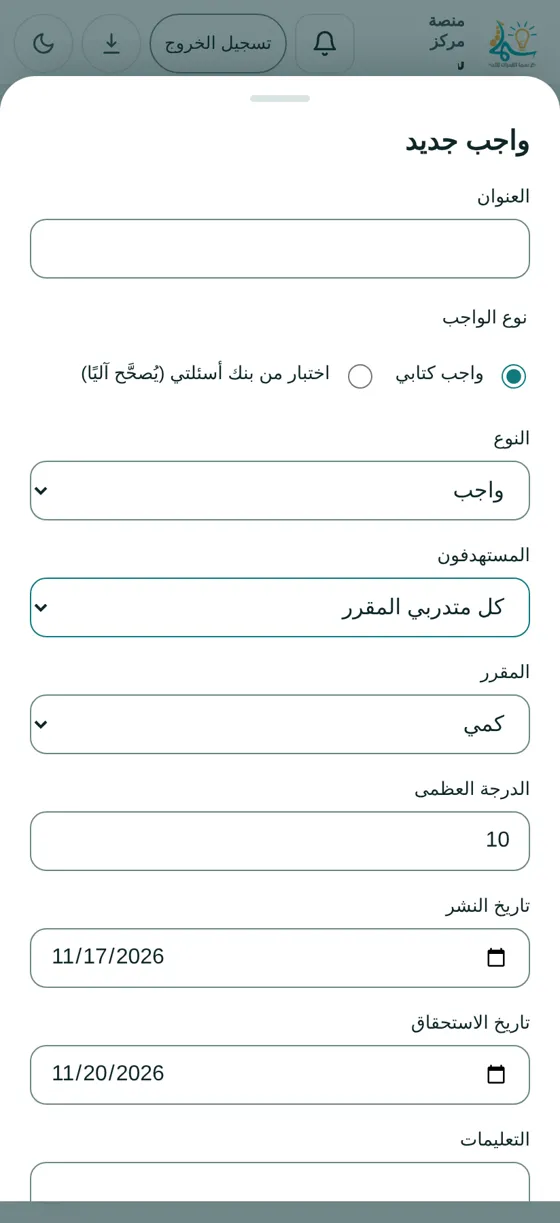
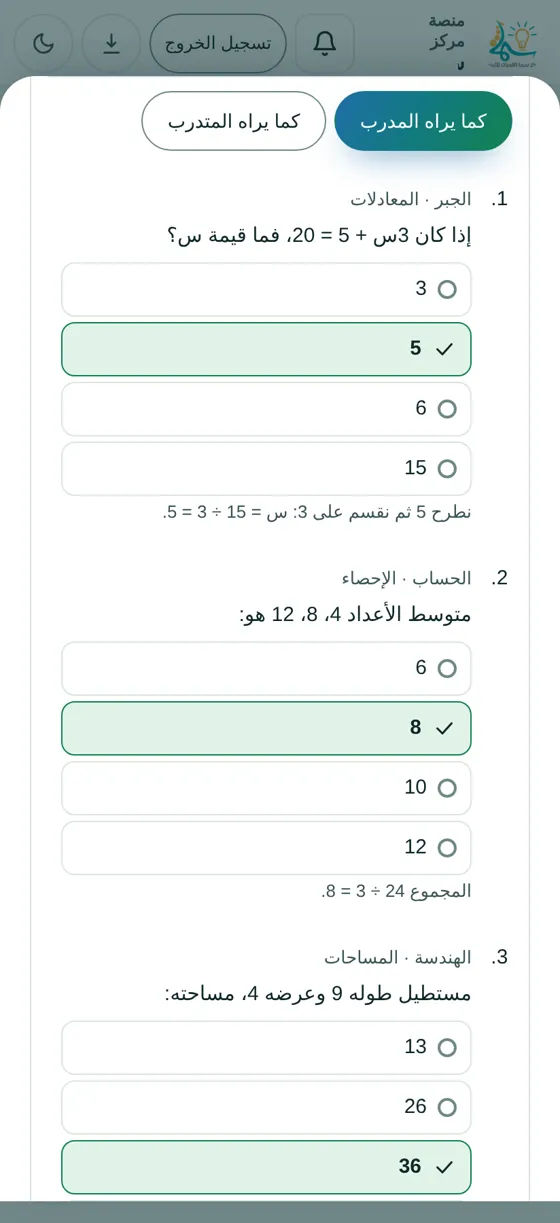
الخطوة AV: أدوات المدرب — اختبار من أكثر من قسم، معاينة، إرسال فردي وجماعي، وتغذية راجعة
- بنّاء الاختبار: أقسام متعددة، عدد مفتوح 1–100 بسحب موزّع أو انتقاء، ترتيب وحذف
- معاينة كما يراه المدرب وكما يراه المتدرب قبل النشر
- بحث بالاسم وتحديد الظاهرين للمستهدفين
- مراجعة إجابات المتدرب بعد التسليم بملاحظة لكل سؤال وملاحظة عامة (teacher_comment)

Claude-Session: https://claude.ai/code/session_012j61WKYZfV81i5FMwMRcDZ

diff --git a/src/learning_views.js b/src/learning_views.js
@@ -2,7 +2,7 @@
    واجهات الجانب التعليمي داخل البوابات: الواجبات، وقياس المستوى وبنك الأسئلة،
    والمراسلة، وتقييم المدرب بالنجوم.
    ===================================================================== */
-import { $, $$, esc, fmtNum, fmtShort, riyadhNow, addDays } from './utils.js';
+import { $, $$, esc, fmtNum, fmtShort, riyadhNow, addDays, matchQ } from './utils.js';
 import { ic, emptyBox, toast } from './views2_head.js';
 import { Store } from './data2.js';
 import { modal, closeModal } from './views2_programs.js';
@@ -65,7 +65,12 @@ export function qStem(q, thumb){
   const src = q.image ? assetUrl(q.image, ASSETS) : '', pg = q.page_image ? assetUrl(q.page_image, ASSETS) : '';
   return q.image ? `<span class="qimg ${thumb ? 'th' : ''}">${src ? `<img src="${esc(src)}" alt="سؤال مصوَّر ${esc(q.code || '')}" loading="lazy">` : `<span class="hint">صورة السؤال ${esc(q.code || '')} غير متاحة (لم يُضبط مسار تخزين صور البنك)</span>`}${!thumb && pg ? `<a class="linkbtn" href="${esc(pg)}" target="_blank" rel="noopener">عرض صفحة القطعة</a>` : ''}</span>${q.text ? `<p>${esc(q.text)}</p>` : ''}` : `<p>${esc(q.text)}</p>`;
 }
-function quizHtml(a){
+/* ملاحظات المدرب بعد التسليم: العامة، ولكل سؤال برقمه */
+const fbHtml = (a, sb) => { if(!sb || (!sb.teacher_note && !sb.comments)) return ''; const idx = Object.fromEntries((a.quiz || []).map((q, i) => [q.id, i + 1]));
+  return `<div class="alert t-info fb-box" style="margin:8px 0 0"><span class="aic">${ic('chat')}</span><div style="flex:1"><b>ملاحظات المدرب</b>${sb.teacher_note ? `<p style="margin:4px 0">${esc(sb.teacher_note)}</p>` : ''}
+    ${Object.entries(sb.comments || {}).sort((x, y) => (idx[x[0]] || 999) - (idx[y[0]] || 999)).map(([id, t]) => `<p class="fb-q">${idx[id] ? `السؤال ${fmtNum(idx[id])}: ` : ''}${esc(t)}</p>`).join('')}</div></div>`; };
+function quizHtml(a){ const fb = fbHtml(a, a.submission); return fb + quizCore(a); }
+function quizCore(a){
   const sb = a.submission, done = sb?.status === 'graded' && sb.review;
   const left = attemptsLeft(a, sb);
   if(left) return `<div class="alert t-info" style="margin:8px 0 0"><span class="aic">${ic('check')}</span><div style="flex:1"><span>سُلّم الاختبار: ${esc(sb.feedback || '')} · درجتك ${fmtNum(sb.score ?? 0)} من ${fmtNum(a.max_score)}.</span>
@@ -163,7 +168,7 @@ export function teacherHomework(D, reload){ setBankAssets(D.bank_assets);
       return `<details class="hw" ${a.due_date >= riyadhNow().date ? 'open' : ''}><summary><b>${esc(a.title)}</b> ${a.type && a.type !== 'homework' ? `<span class="pill ${a.type === 'exam' ? 'warn' : 'g'}">${HW_TYPES[a.type]}</span> ` : ''}${a.kind === 'quiz' ? `<span class="pill info">اختبار · ${fmtNum(a.quiz?.length || 0)} أسئلة${attemptsOf(a) > 1 ? ` · ${fmtNum(attemptsOf(a))} محاولات` : ''}</span> ` : ''}${Array.isArray(a.targets) ? `<span class="pill g">${esc(a.target_label || '')}</span> ` : ''}<span class="hint">${esc(a.subject)} · يُستحق ${fmtShort(a.due_date)} · سلّم ${fmtNum(done.length)} من ${fmtNum(Array.isArray(a.targets) ? a.targets.length : students)}</span></summary>
         ${subs.length ? `<div class="tblwrap"><table class="tb"><thead><tr><th>المتدرب</th><th>الحالة</th><th>الإجابة</th><th>التصحيح</th></tr></thead><tbody>${subs.map(s => `<tr><td>${esc(D.trainees.find(t => t.id === s.trainee_id)?.full_name || '')}</td>
           <td><span class="pill dot ${STATE_TONE[s.status]}">${SUB_TXT[s.status]}</span>${s.late ? ' <span class="hint">متأخر</span>' : ''}</td><td style="max-width:320px">${a.kind === 'quiz' ? esc(s.feedback || '') : esc(s.answer || '')}</td>
-          <td>${a.kind === 'quiz' ? `<b class="num">${fmtNum(s.score ?? 0)} / ${fmtNum(a.max_score)}</b> <span class="hint">آلي</span>` : ['submitted', 'needs_revision', 'graded'].includes(s.status) ? `<button class="btn sm" data-gr="${s.id}">${ic('edit')} ${s.status === 'graded' ? fmtNum(s.score ?? 0) + '/' + fmtNum(a.max_score) : 'تصحيح'}</button>` : '—'}</td></tr>`).join('')}</tbody></table></div>` : '<p class="hint">لا تسليمات بعد.</p>'}</details>`; }).join('') : emptyBox('لم تنشر واجبات بعد')}</div>`,
+          <td>${a.kind === 'quiz' ? `<b class="num">${fmtNum(s.score ?? 0)} / ${fmtNum(a.max_score)}</b> <span class="hint">آلي</span>${s.status !== 'draft' ? ` <button class="btn sm" data-fb="${s.id}">${ic('chat')} ${s.teacher_note || s.comments ? 'ملاحظاتك' : 'مراجعة وتغذية راجعة'}</button>` : ''}` : ['submitted', 'needs_revision', 'graded'].includes(s.status) ? `<button class="btn sm" data-gr="${s.id}">${ic('edit')} ${s.status === 'graded' ? fmtNum(s.score ?? 0) + '/' + fmtNum(a.max_score) : 'تصحيح'}</button>` : '—'}</td></tr>`).join('')}</tbody></table></div>` : '<p class="hint">لا تسليمات بعد.</p>'}</details>`; }).join('') : emptyBox('لم تنشر واجبات بعد')}</div>`,
   bind(){ if(HW_PRESET) queueMicrotask(() => $('#hwAdd')?.click());
     $('#hwAdd').onclick = () => { const n = riyadhNow();
       modal(`<h3>واجب جديد</h3><form id="hf" class="grid g2" novalidate>
@@ -172,15 +177,21 @@ export function teacherHomework(D, reload){ setBankAssets(D.bank_assets);
           <label class="chk"><input type="radio" name="kind" value="text" checked> واجب كتابي</label><label class="chk"><input type="radio" name="kind" value="quiz"> اختبار من بنك أسئلتي (يُصحَّح آليًا)</label></div></fieldset>
         <div class="field"><label for="hf-ty">النوع</label><select class="inp" id="hf-ty" name="type">${Object.entries(HW_TYPES).map(([k, v]) => `<option value="${k}">${v}</option>`).join('')}</select></div>
         <div class="field"><label for="hf-tg">المستهدفون</label><select class="inp" id="hf-tg"><option value="all">كل متدربي المقرر</option><option value="plan">باقة معينة</option>${(D.groups || []).length ? '<option value="group">مجموعة محفوظة</option>' : ''}<option value="pick">أفراد بعينهم</option></select></div>
-        <div data-tgp hidden style="grid-column:1/-1"><div class="field" id="hfTgPlanF" hidden><label for="hf-tp">الباقة</label><select class="inp" id="hf-tp"></select></div><div class="field" id="hfTgGrpF" hidden><label for="hf-gp">المجموعة</label><select class="inp" id="hf-gp">${(D.groups || []).map(g => `<option value="${g.id}">${esc(g.name)} (${fmtNum(g.trainee_ids.length)})</option>`).join('')}</select></div><div class="qpick" id="hfTgList" hidden></div><p class="hint" id="hfTgN" style="margin:6px 0 0"></p></div>
+        <div data-tgp hidden style="grid-column:1/-1"><div class="field" id="hfTgPlanF" hidden><label for="hf-tp">الباقة</label><select class="inp" id="hf-tp"></select></div><div class="field" id="hfTgGrpF" hidden><label for="hf-gp">المجموعة</label><select class="inp" id="hf-gp">${(D.groups || []).map(g => `<option value="${g.id}">${esc(g.name)} (${fmtNum(g.trainee_ids.length)})</option>`).join('')}</select></div><div class="qb-row" id="hfTgTools" hidden><div class="field" style="margin:0"><label for="hfTgQ">بحث بالاسم</label><input class="inp" id="hfTgQ" type="search"></div><button type="button" class="btn sm" id="hfTgAll">تحديد الظاهرين</button><button type="button" class="btn sm" id="hfTgNone">إلغاء التحديد</button></div><div class="qpick" id="hfTgList" hidden></div><p class="hint" id="hfTgN" style="margin:6px 0 0"></p></div>
         <div class="field" data-qk hidden><label for="hf-rv">إظهار الإجابات الصحيحة للمتدرب</label><select class="inp" id="hf-rv" name="reveal">${Object.entries(REVEAL).map(([k, v]) => `<option value="${k}">${v}</option>`).join('')}</select></div>
         <div class="field" data-qk hidden><label for="hf-at">عدد المحاولات المسموحة</label><select class="inp" id="hf-at" name="max_attempts">${Array.from({ length:MAX_ATTEMPTS }, (_, i) => `<option value="${i + 1}">${i === 0 ? 'محاولة واحدة' : i === 1 ? 'محاولتان' : fmtNum(i + 1) + ' محاولات'}</option>`).join('')}</select></div>
-        <div class="field" data-qk hidden><label for="hf-u">الوحدة أو النموذج</label><select class="inp" id="hf-u" name="unit"></select></div>
-        <div class="field" data-qk hidden><label for="hf-m">طريقة اختيار الأسئلة</label><select class="inp" id="hf-m"><option value="rand">عشوائي بعدد محدد</option><option value="pick">أنتقي الأسئلة بنفسي</option></select></div>
-        <div data-qpk hidden style="grid-column:1/-1"><div class="field"><label for="hf-k">القسم داخل الوحدة</label><select class="inp" id="hf-k"></select></div><div class="qpick" id="hfPick"></div><p class="hint" id="hfPn" style="margin:6px 0 0"></p></div>
-        <div class="field" data-qk hidden><label for="hf-n">عدد الأسئلة</label><select class="inp" id="hf-n" name="count">${[5, 10, 15, 20, 30].map(n => `<option ${n === 10 ? 'selected' : ''}>${n}</option>`).join('')}</select></div>
+        <div class="qb" data-qk hidden style="grid-column:1/-1">
+          <fieldset class="field" style="border:0;padding:0;margin:0"><legend style="font-weight:500;font-size:13.5px;margin-bottom:6px">الأقسام والنماذج (اختر قسمًا أو أكثر ليكون الاختبار شاملًا)</legend><div class="qb-units" id="hfUnits"></div></fieldset>
+          <div class="qb-row"><div class="field" style="margin:0"><label for="hf-n">عدد الأسئلة</label><input class="inp num" id="hf-n" name="count" type="number" min="1" max="100" value="10" inputmode="numeric"></div>
+            <button type="button" class="btn" id="hfDraw">${ic('refresh')} سحب عشوائي من الأقسام المحددة</button></div>
+          <details class="qb-man"><summary>أو انتقِ الأسئلة بنفسك</summary>
+            <div class="qb-row"><div class="field" style="margin:0"><label for="hf-k">المهارة داخل الأقسام</label><select class="inp" id="hf-k"></select></div><div class="field" style="margin:0"><label for="hf-q">بحث</label><input class="inp" id="hf-q" type="search" placeholder="رمز السؤال أو نصه"></div></div>
+            <div class="qpick" id="hfPick"></div></details>
+          <div class="qb-sel"><div class="qb-head"><b id="hfPn">لم تُختر أسئلة بعد</b><span style="flex:1"></span><button type="button" class="btn sm" id="hfClr">${ic('x')} تفريغ</button><button type="button" class="btn sm pri" id="hfPv">${ic('eye')} معاينة</button></div><ol class="qb-list" id="hfSel"></ol></div>
+          <div class="qb-prev" id="hfPrev" hidden><div class="seg" role="tablist"><button type="button" role="tab" class="on" data-pv="t" aria-selected="true">كما يراه المدرب</button><button type="button" role="tab" data-pv="s" aria-selected="false">كما يراه المتدرب</button></div><div id="hfPrevB"></div></div>
+          <p class="hint" style="margin:0">إن لم تختر أسئلة يُسحب العدد المحدد عشوائيًا عند النشر. الحد 100 سؤال.</p></div>
         <div class="field"><label for="hf-s">المقرر</label><select class="inp" id="hf-s" name="subject">${me.subjects.map(s => `<option>${s}</option>`).join('')}</select></div>
-        <div class="field"><label for="hf-m">الدرجة العظمى</label><input class="inp num" id="hf-m" name="max_score" type="number" min="1" value="10"></div>
+        <div class="field"><label for="hf-ms">الدرجة العظمى</label><input class="inp num" id="hf-ms" name="max_score" type="number" min="1" value="10"></div>
         <div class="field"><label for="hf-p">تاريخ النشر</label><input class="inp" type="date" id="hf-p" name="publish_date" value="${n.date}"></div>
         <div class="field"><label for="hf-d">تاريخ الاستحقاق</label><input class="inp" type="date" id="hf-d" name="due_date" value="${addDays(n.date, 3)}"></div>
         <div class="field" style="grid-column:1/-1"><label for="hf-b">التعليمات</label><textarea class="inp" id="hf-b" name="body" rows="4" style="padding:10px 14px;line-height:1.8"></textarea></div>
@@ -188,34 +199,72 @@ export function teacherHomework(D, reload){ setBankAssets(D.bank_assets);
         <div class="errtxt" id="hfE" style="grid-column:1/-1"></div>
         <div style="grid-column:1/-1;display:flex;gap:8px;justify-content:flex-end"><button type="button" class="btn" id="hfC">إلغاء</button><button class="btn pri" id="hfS">${ic('check')} نشر</button></div></form>`);
       $('#hfC').onclick = closeModal;
-      const pub = (D.questions || []).filter(q => q.status === 'published'), units = () => { const sub = $('#hf-s').value, us = {};
-          pub.filter(q => q.subject === sub).forEach(q => us[q.unit] = (us[q.unit] || 0) + 1);
-          $('#hf-u').innerHTML = `<option value="">كل الوحدات (${fmtNum(pub.filter(q => q.subject === sub).length)})</option>` + Object.entries(us).map(([u, n]) => `<option value="${esc(u)}">${esc(u)} (${fmtNum(n)})</option>`).join(''); };
+      const pub = (D.questions || []).filter(q => q.status === 'published');
       /* المستهدفون: قائمة ثابتة وقت الإرسال (باقة أو أفراد)، من متدربي القسم والمقرر باشتراك قائم */
       const tgPicked = new Set(), eligible = () => { const sub = $('#hf-s').value; return (D.trainees || []).map(t => ({ t, subs:(D.subscriptions || []).filter(s => s.trainee_id === t.id && (s.subjects || []).includes(sub) && ['pending', 'active'].includes(subStatus(s))) })).filter(x => x.subs.length); };
       const tgIds = () => { const m = $('#hf-tg').value; const gp = m === 'group' ? (D.groups || []).find(g => g.id === $('#hf-gp').value) : null; return m === 'all' ? null : m === 'group' ? eligible().filter(x => gp?.trainee_ids.includes(x.t.id)).map(x => x.t.id) : m === 'plan' ? eligible().filter(x => x.subs.some(s => s.plan_id === $('#hf-tp').value)).map(x => x.t.id) : eligible().filter(x => tgPicked.has(x.t.id)).map(x => x.t.id); };
-      const tgDraw = () => { const m = $('#hf-tg').value, el = eligible(); $('[data-tgp]').hidden = m === 'all'; $('#hfTgPlanF').hidden = m !== 'plan'; $('#hfTgGrpF').hidden = m !== 'group'; $('#hfTgList').hidden = m !== 'pick';
+      const tgDraw = () => { const m = $('#hf-tg').value, el = eligible(); $('[data-tgp]').hidden = m === 'all'; $('#hfTgPlanF').hidden = m !== 'plan'; $('#hfTgGrpF').hidden = m !== 'group'; $('#hfTgList').hidden = m !== 'pick'; $('#hfTgTools').hidden = m !== 'pick';
         if(m === 'plan'){ const ps = [...new Set(el.flatMap(x => x.subs.map(s => s.plan_id)))], cur = $('#hf-tp').value; $('#hf-tp').innerHTML = ps.map(id => { const p = (D.plans || []).find(y => y.id === id); return `<option value="${id}" ${id === cur ? 'selected' : ''}>${esc(p ? planName(p) : id)}</option>`; }).join(''); }
-        if(m === 'pick'){ $('#hfTgList').innerHTML = el.map(x => `<label class="qp"><input type="checkbox" value="${x.t.id}" ${tgPicked.has(x.t.id) ? 'checked' : ''}><span>${esc(x.t.full_name)}</span></label>`).join('') || '<p class="hint">لا متدربين في هذا المقرر.</p>';
+        if(m === 'pick'){ const tq = $('#hfTgQ').value; $('#hfTgList').innerHTML = el.filter(x => !tq.trim() || matchQ(tq, x.t.full_name)).map(x => `<label class="qp"><input type="checkbox" value="${x.t.id}" ${tgPicked.has(x.t.id) ? 'checked' : ''}><span>${esc(x.t.full_name)}</span></label>`).join('') || '<p class="hint">لا متدربين في هذا المقرر.</p>';
           $$('#hfTgList input').forEach(c => c.onchange = () => { c.checked ? tgPicked.add(c.value) : tgPicked.delete(c.value); tgN(); }); }
         tgN(); };
       const tgN = () => { const ids = tgIds(); $('#hfTgN').textContent = ids ? `سيُرسل إلى ${fmtNum(ids.length)} متدربًا، وتُثبَّت القائمة عند النشر.` : ''; };
+      let tgT; $('#hfTgQ').oninput = () => { clearTimeout(tgT); tgT = setTimeout(tgDraw, 200); };
+      $('#hfTgAll').onclick = () => { $$('#hfTgList input').forEach(c => tgPicked.add(c.value)); tgDraw(); }; $('#hfTgNone').onclick = () => { tgPicked.clear(); tgDraw(); };
       $('#hf-tg').onchange = tgDraw; $('#hf-tp').onchange = tgN; $('#hf-gp').onchange = tgN; $('#hf-s').addEventListener('change', tgDraw);
       if(HW_PRESET){ const P = HW_PRESET; HW_PRESET = null; $('#hf-t').value = P.title || ''; $('#hf-ty').value = 'practice'; $('#hf-tg').value = 'pick'; P.ids.forEach(id => tgPicked.add(id)); tgDraw(); }
-      const chosen = [], pickOn = () => !$('[data-qk]').hidden && $('#hf-m').value === 'pick';
-      const pool = () => pub.filter(q => q.subject === $('#hf-s').value && (!$('#hf-u').value || q.unit === $('#hf-u').value)).sort((a, b) => (a.order || 0) - (b.order || 0));
-      const drawPick = () => { const k = $('#hf-k').value, list = pool().filter(q => !k || (q.skill || '') === k).slice(0, 120);
-        $('#hfPick').innerHTML = list.length ? list.map(q => `<label class="qp"><input type="checkbox" value="${q.id}" ${chosen.includes(q.id) ? 'checked' : ''}><span>${q.code ? `<b dir="ltr">${esc(q.code)}</b>` : ''}${qStem(q, true)}</span></label>`).join('') : '<p class="hint">لا أسئلة منشورة هنا.</p>';
-        $$('#hfPick input').forEach(c => c.onchange = () => { const i = chosen.indexOf(c.value); c.checked ? i < 0 && chosen.push(c.value) : i >= 0 && chosen.splice(i, 1); count(); }); count(); };
-      const count = () => { $('#hfPn').textContent = `المختار: ${fmtNum(chosen.length)} سؤالًا (بترتيب اختيارك).`; };
-      const skills = () => { const ks = [...new Set(pool().map(q => q.skill || '').filter(Boolean))]; $('#hf-k').innerHTML = `<option value="">كل الأقسام</option>` + ks.map(k => `<option>${esc(k)}</option>`).join(''); drawPick(); };
-      const mode = () => { const p = pickOn(); $('[data-qpk]').hidden = !p; $('#hf-n').closest('.field').hidden = p || $('[data-qk]').hidden; if(p) skills(); };
-      $('#hf-m').onchange = mode; $('#hf-u').addEventListener('change', () => { if(pickOn()) skills(); }); $('#hf-k').onchange = drawPick;
-      const kind = () => { const q = $('#hf [name=kind]:checked').value === 'quiz'; $$('[data-qk]').forEach(x => x.hidden = !q); if(q) units(); mode(); };
-      $$('#hf [name=kind]').forEach(r => r.onchange = kind); $('#hf-s').addEventListener('change', () => { if(!$('[data-qk]').hidden) units(); });
+      /* بنّاء الاختبار: أقسام متعددة، سحب عشوائي بعدد مفتوح أو انتقاء يدوي، وترتيب، ومعاينة قبل النشر */
+      const chosen = [], qOf = id => pub.find(q => q.id === id), units = new Set();
+      const subPool = () => pub.filter(q => q.subject === $('#hf-s').value).sort((a, b) => (a.unit || '').localeCompare(b.unit || '', 'ar') || (a.order || 0) - (b.order || 0));
+      const pool = () => subPool().filter(q => !units.size || units.has(q.unit || ''));
+      const drawUnits = () => { const us = {}; subPool().forEach(q => us[q.unit || ''] = (us[q.unit || ''] || 0) + 1); [...units].forEach(u => { if(!(u in us)) units.delete(u); });
+        $('#hfUnits').innerHTML = Object.keys(us).length ? Object.entries(us).map(([u, n]) => `<label class="chk qb-u"><input type="checkbox" value="${esc(u)}" ${units.has(u) ? 'checked' : ''}> ${esc(u || 'بلا وحدة')} <span class="hint">(${fmtNum(n)})</span></label>`).join('') : '<p class="hint">لا توجد أسئلة منشورة في بنكك لهذا المقرر.</p>';
+        $$('#hfUnits input').forEach(c => c.onchange = () => { c.checked ? units.add(c.value) : units.delete(c.value); skills(); }); skills(); };
+      const skills = () => { const ks = [...new Set(pool().map(q => q.skill || '').filter(Boolean))], cur = $('#hf-k').value; $('#hf-k').innerHTML = `<option value="">كل المهارات</option>` + ks.map(k => `<option ${k === cur ? 'selected' : ''}>${esc(k)}</option>`).join(''); drawPick(); };
+      const drawPick = () => { const k = $('#hf-k').value, qq = $('#hf-q').value, list = pool().filter(q => (!k || (q.skill || '') === k) && (!qq.trim() || matchQ(qq, q.code, q.text, q.unit, q.skill))).slice(0, 150);
+        $('#hfPick').innerHTML = list.length ? list.map(q => `<label class="qp"><input type="checkbox" value="${q.id}" ${chosen.includes(q.id) ? 'checked' : ''}><span>${q.code ? `<b dir="ltr">${esc(q.code)}</b>` : ''}<b>${esc(q.unit || '')}${q.skill ? ' · ' + esc(q.skill) : ''}</b>${qStem(q, true)}</span></label>`).join('') : '<p class="hint">لا أسئلة مطابقة.</p>';
+        $$('#hfPick input').forEach(c => c.onchange = () => { const i = chosen.indexOf(c.value); c.checked ? i < 0 && chosen.length < 100 && chosen.push(c.value) : i >= 0 && chosen.splice(i, 1); if(c.checked && !chosen.includes(c.value)){ c.checked = false; toast('الحد 100 سؤال'); } count(); }); };
+      const short = q => esc((q.text || q.code || 'سؤال مصوَّر').slice(0, 90));
+      const count = () => { const by = {}; chosen.forEach(id => { const u = qOf(id)?.unit || ''; by[u] = (by[u] || 0) + 1; });
+        $('#hfPn').textContent = chosen.length ? `المختار: ${fmtNum(chosen.length)} سؤالًا من ${fmtNum(Object.keys(by).length)} ${Object.keys(by).length === 1 ? 'قسم' : 'أقسام'} (بهذا الترتيب)` : 'لم تُختر أسئلة بعد';
+        $('#hfSel').innerHTML = chosen.map((id, i) => { const q = qOf(id); return `<li><span class="qb-t">${q?.code ? `<b dir="ltr">${esc(q.code)}</b> ` : ''}<span class="hint">${esc(q?.unit || '')}</span> ${q ? short(q) : ''}</span>
+          <button type="button" class="btn sm ghost" data-mv="${i}:-1" aria-label="تقديم السؤال ${i + 1}" ${i ? '' : 'disabled'}>▲</button><button type="button" class="btn sm ghost" data-mv="${i}:1" aria-label="تأخير السؤال ${i + 1}" ${i < chosen.length - 1 ? '' : 'disabled'}>▼</button><button type="button" class="btn sm ghost" data-rm="${i}" aria-label="حذف السؤال ${i + 1}">${ic('x')}</button></li>`; }).join('');
+        $$('#hfSel [data-mv]').forEach(b => b.onclick = () => { const [i, d] = b.dataset.mv.split(':').map(Number), j = i + d; [chosen[i], chosen[j]] = [chosen[j], chosen[i]]; count(); if(!$('#hfPrev').hidden) preview(); });
+        $$('#hfSel [data-rm]').forEach(b => b.onclick = () => { chosen.splice(+b.dataset.rm, 1); count(); drawPick(); if(!$('#hfPrev').hidden) preview(); }); };
+      const nWanted = () => { const n = Math.floor(+$('#hf-n').value); return n >= 1 && n <= 100 ? n : 0; };
+      const draw = () => { const n = nWanted(); if(!n){ toast('عدد الأسئلة من 1 إلى 100'); return false; } const src = pool(); if(!src.length){ toast('لا توجد أسئلة منشورة في الأقسام المحددة'); return false; }
+        /* توزيع متوازن على الأقسام المحددة ثم خلط داخل كل قسم */
+        const by = {}; src.forEach(q => (by[q.unit || ''] = by[q.unit || ''] || []).push(q)); Object.values(by).forEach(l => l.sort(() => Math.random() - .5));
+        const out = [], keys = Object.keys(by); while(out.length < Math.min(n, src.length)) for(const k of keys){ const q = by[k].shift(); if(q && out.length < n) out.push(q.id); }
+        chosen.splice(0, chosen.length, ...out); count(); drawPick(); if(out.length < n) toast(`المتاح ${fmtNum(out.length)} سؤالًا فقط`); return true; };
+      let pvMode = 't';
+      const preview = () => { const qs = chosen.map(qOf).filter(Boolean);
+        $('#hfPrevB').innerHTML = qs.length ? `<ol class="qres qb-pv">${qs.map(q => `<li>${pvMode === 't' ? `<p class="hint" style="margin:0 0 4px">${q.code ? `<span dir="ltr">${esc(q.code)}</span> · ` : ''}${esc(q.unit || '')}${q.skill ? ' · ' + esc(q.skill) : ''}</p>` : ''}${qStem(q)}
+          <ul class="qb-opts">${(q.options || []).map((o, i) => `<li class="${pvMode === 't' && i === q.correct ? 'ok' : ''}">${pvMode === 't' && i === q.correct ? ic('check') : '<span class="qb-dot" aria-hidden="true"></span>'} ${esc(o)}</li>`).join('')}</ul>
+          ${pvMode === 't' && q.explanation ? `<p class="hint">${esc(q.explanation)}</p>` : ''}</li>`).join('')}</ol>${pvMode === 's' ? `<p class="hint">يرى المتدرب الأسئلة بعد ضغط «ابدأ الآن» فقط، ومدته ${fmtNum(qs.length * 2)} دقيقة، دون الإجابات الصحيحة.</p>` : ''}` : '<p class="hint">اختر أسئلة أو اسحبها عشوائيًا أولًا.</p>'; };
+      $('#hfPv').onclick = () => { if(!chosen.length && !draw()) return; $('#hfPrev').hidden = false; preview(); $('#hfPrev').scrollIntoView({ block:'nearest' }); };
+      $$('#hfPrev [data-pv]').forEach(b => b.onclick = () => { pvMode = b.dataset.pv; $$('#hfPrev [data-pv]').forEach(x => { x.classList.toggle('on', x === b); x.setAttribute('aria-selected', x === b); }); preview(); });
+      $('#hfDraw').onclick = () => { if(draw() && !$('#hfPrev').hidden) preview(); };
+      $('#hfClr').onclick = () => { chosen.length = 0; count(); drawPick(); $('#hfPrev').hidden = true; };
+      $('#hf-k').onchange = drawPick; let qT; $('#hf-q').oninput = () => { clearTimeout(qT); qT = setTimeout(drawPick, 200); };
+      const kind = () => { const q = $('#hf [name=kind]:checked').value === 'quiz'; $$('[data-qk]').forEach(x => x.hidden = !q); if(q) drawUnits(); };
+      $$('#hf [name=kind]').forEach(r => r.onchange = kind); $('#hf-s').addEventListener('change', () => { chosen.length = 0; count(); if(!$('[data-qk]').hidden) drawUnits(); });
       $('#hf').onsubmit = async e => { e.preventDefault(); const f = Object.fromEntries(new FormData(e.target)), b = $('#hfS'); { const ids = tgIds(); if(ids){ if(!ids.length){ $('#hfE').textContent = 'اختر متدربًا واحدًا على الأقل'; return; } f.targets = ids; f.target_label = $('#hf-tg').value === 'plan' ? $('#hf-tp').selectedOptions[0]?.textContent || '' : $('#hf-tg').value === 'group' ? 'مجموعة: ' + ((D.groups || []).find(g => g.id === $('#hf-gp').value)?.name || '') : `${fmtNum(ids.length)} متدربًا بعينهم`; } }
-        if(f.kind === 'quiz' && $('#hf-m').value === 'pick'){ if(!chosen.length){ $('#hfE').textContent = 'انتقِ سؤالًا واحدًا على الأقل'; return; } f.question_ids = chosen.slice(); } setBusy(b, true, 'جارٍ النشر');
+        if(f.kind === 'quiz'){ if(!chosen.length && !draw()){ $('#hfE').textContent = 'اختر الأسئلة أو حدّد عددًا صحيحًا من 1 إلى 100'; return; } f.question_ids = chosen.slice(); f.count = chosen.length; delete f.unit; } setBusy(b, true, 'جارٍ النشر');
         try { await Store.saveAssignment(f); closeModal(); toast('نُشر الواجب'); reload(); } catch(x){ setBusy(b, false); $('#hfE').textContent = x.message; } }; };
+    /* مراجعة إجابات المتدرب في الاختبار: إجابته والصحيح لكل سؤال، وملاحظة لكل سؤال وملاحظة عامة (لا تغيّر الدرجة) */
+    $$('[data-fb]').forEach(b => b.onclick = () => { const s = D.submissions.find(x => x.id === b.dataset.fb), a = D.assignments.find(x => x.id === s.assignment_id), cm = s.comments || {};
+      const right = (a.quiz || []).filter(q => s.answers?.[q.id] === q.correct).length;
+      modal(`<h3>مراجعة: ${esc(D.trainees.find(t => t.id === s.trainee_id)?.full_name || '')}</h3><p class="hint" style="margin:-4px 0 10px">${esc(a.title)} · صحيح ${fmtNum(right)} من ${fmtNum((a.quiz || []).length)} · الدرجة ${fmtNum(s.score ?? 0)} من ${fmtNum(a.max_score)}</p>
+        <form id="fbf" novalidate><ol class="qres">${(a.quiz || []).map(q => { const mine = s.answers?.[q.id];
+          return `<li class="${mine === q.correct ? 'ok' : 'bad'}">${qStem(q)}<p><b>إجابته:</b> ${mine == null ? 'لم يُجب' : esc(q.options[mine] ?? '')}${mine !== q.correct ? ` · <b>الصحيح:</b> ${esc(q.options[q.correct] ?? '')}` : ''}</p>
+            <label class="hint" for="fbq-${q.id}">ملاحظتك على هذا السؤال</label><textarea class="inp fb-in" id="fbq-${q.id}" data-fq="${q.id}" rows="2" maxlength="500">${esc(cm[q.id] || '')}</textarea></li>`; }).join('')}</ol>
+        <div class="field"><label for="fb-n">ملاحظة عامة للمتدرب</label><textarea class="inp" id="fb-n" rows="3" maxlength="1000" style="padding:10px 14px">${esc(s.teacher_note || '')}</textarea></div>
+        <p class="hint">يرى المتدرب ملاحظاتك في واجبه. الدرجة الآلية لا تتغير.</p><div class="errtxt" id="fbE" role="alert"></div>
+        <div style="display:flex;gap:8px;justify-content:flex-end"><button type="button" class="btn" id="fbC">إلغاء</button><button class="btn pri" id="fbS">${ic('send')} حفظ وإرسال الملاحظات</button></div></form>`);
+      $('#fbC').onclick = closeModal;
+      $('#fbf').onsubmit = async e => { e.preventDefault(); const bb = $('#fbS'), comments = Object.fromEntries($$('#fbf [data-fq]').map(t => [t.dataset.fq, t.value]).filter(([, v]) => v.trim())); setBusy(bb, true, 'جارٍ الحفظ');
+        try { await Store.commentSubmission(s.id, { note:$('#fb-n').value, comments }); closeModal(); toast('أُرسلت ملاحظاتك للمتدرب'); reload(); } catch(x){ setBusy(bb, false); $('#fbE').textContent = x.message; } }; });
     $$('[data-gr]').forEach(b => b.onclick = () => { const s = D.submissions.find(x => x.id === b.dataset.gr), a = D.assignments.find(x => x.id === s.assignment_id);
       modal(`<h3>تصحيح: ${esc(D.trainees.find(t => t.id === s.trainee_id)?.full_name || '')}</h3><p class="hw-ans">${esc(s.answer || '')}</p><form id="gf2" class="grid g2" novalidate>
         <div class="field"><label for="g-s">الدرجة من ${fmtNum(a.max_score)}</label><input class="inp num" id="g-s" name="score" type="number" min="0" max="${a.max_score}" value="${s.score ?? ''}"></div>

diff --git a/public/guide/trainer.html b/public/guide/trainer.html
@@ -44,9 +44,9 @@ footer{color:#6A8183;font-size:13px;text-align:center}
     <p><b>المجموعات الذكية:</b> يحسبها النظام الآن من الحضور والواجبات: متأخرو الواجبات، حضور دون حد الاستحقاق، غياب متتالٍ، إنجاز منخفض، اقتراب انتهاء الاشتراك، ولكل باقة. «تجهيز واجب علاجي لهم» يفتح نموذج الواجب بقائمة المجموعة دون نشر، لتراجعه ثم تنشره.</p>
     <div class="figs"><figure class="phone"><a href="img/t06_groups.webp" target="_blank" rel="noopener"><img src="img/t06_groups.webp" alt="المجموعات الذكية" loading="lazy"></a><figcaption>المجموعات الذكية</figcaption></figure></div></section>
 <section id="hw"><h2><span class="n">5</span>الواجبات والاختبارات</h2>
-    <ol class="steps"><li>من «الواجبات» اضغط «واجب».</li><li>اكتب العنوان واختر نوعه: <b>واجب كتابي</b> أو <b>اختبار من بنك أسئلتي</b> (يُصحَّح آليًا).</li><li>اختر النوع (واجب، تدريب، اختبار رسمي) والمستهدفين: كل متدربي المقرر، أو باقة، أو أفراد، أو مجموعة محفوظة.</li><li>حدّد متى تظهر الإجابات الصحيحة للمتدرب، وعدد المحاولات المسموحة (حتى 3، وتُحتسب أعلى درجة).</li><li>للاختبار: اختر الوحدة وطريقة الاختيار وعدد الأسئلة، أو انتقِ أسئلة بعينها بترتيبك.</li><li>انشر الواجب؛ تتابع التسليمات من القائمة وتصحّح الكتابي منها.</li></ol>
+    <ol class="steps"><li>من «الواجبات» اضغط «واجب».</li><li>اكتب العنوان واختر نوعه: <b>واجب كتابي</b> أو <b>اختبار من بنك أسئلتي</b> (يُصحَّح آليًا).</li><li>اختر النوع (واجب، تدريب، اختبار رسمي) والمستهدفين: كل متدربي المقرر، أو باقة، أو أفراد، أو مجموعة محفوظة.</li><li>حدّد متى تظهر الإجابات الصحيحة للمتدرب، وعدد المحاولات المسموحة (حتى 3، وتُحتسب أعلى درجة).</li><li>للاختبار: حدّد قسمًا أو أكثر من البنك ليكون شاملًا، واكتب عدد الأسئلة (من 1 إلى 100) ثم «سحب عشوائي»، أو انتقِ أسئلة بعينها؛ رتّبها بالأسهم أو احذف منها.</li><li>اضغط «معاينة» لترى الاختبار كما تراه أنت (بالإجابات الصحيحة) وكما يراه المتدرب، ثم انشر.</li><li>للإرسال الفردي اختر «أفراد بعينهم» وابحث بالاسم، وللجماعي «تحديد الظاهرين» أو باقة أو مجموعة محفوظة.</li><li>بعد التسليم اضغط «مراجعة وتغذية راجعة» لترى إجابة المتدرب في كل سؤال، واكتب ملاحظة لكل سؤال وملاحظة عامة يراها في واجبه (لا تغيّر الدرجة). وتصحّح الكتابي من «تصحيح».</li></ol>
     <p class="note warn">الاختبار يُفتح للمتدرب مرة واحدة ومدته دقيقتان لكل سؤال، ويُصحَّح تلقائيًا عند التسليم أو انتهاء الوقت. والاختبار الرسمي لا يُنشر إلا بمفاتيح إجابات اعتمدتها الإدارة.</p>
-    <div class="figs"><figure class="phone"><a href="img/t07_hw.webp" target="_blank" rel="noopener"><img src="img/t07_hw.webp" alt="قائمة الواجبات" loading="lazy"></a><figcaption>قائمة الواجبات</figcaption></figure><figure class="phone"><a href="img/t08_hw_editor.webp" target="_blank" rel="noopener"><img src="img/t08_hw_editor.webp" alt="نموذج واجب جديد" loading="lazy"></a><figcaption>نموذج واجب جديد</figcaption></figure></div></section>
+    <div class="figs"><figure class="phone"><a href="img/t07_hw.webp" target="_blank" rel="noopener"><img src="img/t07_hw.webp" alt="قائمة الواجبات" loading="lazy"></a><figcaption>قائمة الواجبات</figcaption></figure><figure class="phone"><a href="img/t08_hw_editor.webp" target="_blank" rel="noopener"><img src="img/t08_hw_editor.webp" alt="اختبار من أكثر من قسم مع المعاينة" loading="lazy"></a><figcaption>اختبار من أكثر من قسم مع المعاينة</figcaption></figure></div></section>
 <section id="bank"><h2><span class="n">6</span>بنك الأسئلة والنتائج</h2>
     <p>أسئلة بنكك (ومعها البنك المشترك لمقررك) بالمقرر والوحدة والحالة. «سؤال» يضيف سؤالًا جديدًا، وتحت البنك نتائج محاولات «قياس مستواي» لمتدربيك.</p>
     <div class="figs"><figure class="phone"><a href="img/t09_bank.webp" target="_blank" rel="noopener"><img src="img/t09_bank.webp" alt="بنك الأسئلة" loading="lazy"></a><figcaption>بنك الأسئلة</figcaption></figure></div></section>

diff --git a/src/data2.js b/src/data2.js
@@ -754,6 +754,12 @@ export const LocalStore = {
   async gradeSubmission(id, g){ const me=await this._me(), D=this.data, s=D.submissions.find(x=>x.id===id), a=s&&D.assignments.find(y=>y.id===s.assignment_id&&y.teacher_id===me.id); if(!a) throw new Error('غير مصرح');
     if(!['graded','needs_revision'].includes(g.status)) throw new Error('حالة غير صالحة'); const sc=g.score===''||g.score==null?null:+g.score; if(sc!=null&&(sc<0||sc>a.max_score)) throw new Error(`الدرجة من 0 إلى ${a.max_score}`);
     Object.assign(s,{status:g.status, score:sc, feedback:String(g.feedback||'').slice(0,1000), graded_at:new Date().toISOString()}); this.save(); return {ok:true}; },
+  /* تغذية راجعة بعد التسليم: ملاحظة عامة ولكل سؤال، لا تغيّر الدرجة ↔ teacher_comment */
+  async commentSubmission(id, f){ const me=await this._me(), D=this.data, s=D.submissions.find(x=>x.id===id), a=s&&D.assignments.find(y=>y.id===s.assignment_id&&y.teacher_id===me.id); if(!a) throw new Error('غير مصرح');
+    if(s.status==='draft') throw new Error('لم يُسلِّم المتدرب بعد'); const c={};
+    for(const [k,v] of Object.entries(f.comments||{})){ const t=String(v||'').trim(); if(!t) continue; if(a.kind!=='quiz'||!(a.quiz||[]).some(q=>q.id===k)) throw new Error('ملاحظة على سؤال خارج الاختبار'); c[k]=t.slice(0,500); }
+    if(Object.keys(c).length>100) throw new Error('الحد 100 ملاحظة');
+    s.teacher_note=String(f.note||'').trim().slice(0,1000)||null; s.comments=Object.keys(c).length?c:null; this.save(); return {ok:true}; },
   async submitAssignment({trainee_id, assignment_id, answer, answers, draft}){ await this._student(trainee_id); const D=this.data, a=D.assignments.find(x=>x.id===assignment_id);
     if(!a||!studentHasScope(D,trainee_id,a.section,a.subject)||a.publish_date>riyadhNow().date||(Array.isArray(a.targets)&&!a.targets.includes(trainee_id))) throw new Error('الواجب غير متاح لك');
     let s=D.submissions.find(x=>x.assignment_id===a.id&&x.trainee_id===trainee_id); if(s&&s.status==='graded') throw new Error('صُحّح الواجب ولا يمكن تعديله');
@@ -989,6 +995,7 @@ export const CloudStore = {
   // التعليم: نفس توقيعات LocalStore، والتحقق من النطاق في دوال SQL
   async saveAssignment(a){ return this._e(await this.sb.rpc('teacher_save_assignment',{p:a})); },
   async gradeSubmission(id, g){ return this._e(await this.sb.rpc('teacher_grade',{p_id:id, p:g})); },
+  async commentSubmission(id, f){ return this._e(await this.sb.rpc('teacher_comment',{p_id:id, p:f})); },
   async submitAssignment(p){ return this._e(await this.sb.rpc('student_submit',{p})); },
   async saveMyProfile(p){ return this._e(await this.sb.rpc('teacher_save_profile',{p:checkProfile(p)})); },
   async saveGroup(g){ return this._e(await this.sb.rpc('teacher_save_group',{p:{id:g.id||null, name:String(g.name||'').trim(), trainee_ids:g.trainee_ids||[]}})); },

diff --git a/src/style.css b/src/style.css
@@ -1443,3 +1443,22 @@ body.sim-on{overflow:hidden}
 @media(max-width:400px){.dbst{width:30px;height:30px}.dbst .ic{width:16px;height:16px}.topbar .in{gap:5px}.brand{gap:7px}}
 @media(max-width:860px){.brand{flex:1 1 0}}
 @media(max-width:400px){.brand-t b:last-child{white-space:normal;line-height:1.2}}
+/* بنّاء الاختبار للمدرب (الخطوة AV): أقسام متعددة، مختار مرتب، معاينة */
+.qb{display:grid;gap:12px;border:1px solid var(--border);border-radius:14px;padding:12px}
+.qb-units{display:flex;flex-wrap:wrap;gap:6px 14px}
+.qb-u{min-height:44px}
+.qb-row{display:flex;flex-wrap:wrap;gap:10px;align-items:flex-end}.qb-row .field{flex:1 1 160px}
+.qb-man>summary{cursor:pointer;min-height:44px;display:flex;align-items:center;font-weight:500}
+.qb-man[open]>summary{margin-bottom:8px}
+.qb-head{display:flex;flex-wrap:wrap;gap:8px;align-items:center;margin-bottom:6px}
+.qb-list{margin:0;padding-inline-start:22px;display:grid;gap:4px;max-height:260px;overflow:auto}
+.qb-list li{display:flex;gap:4px;align-items:center;padding:4px 6px;border-radius:10px;background:var(--surface-sunken,var(--brand-tint))}
+.qb-list li .qb-t{flex:1;min-width:0;font-size:13.5px;overflow-wrap:anywhere}
+.qb-list li .btn{min-width:44px;min-height:44px;padding:0;justify-content:center}
+.qb-prev{border-top:1px solid var(--border);padding-top:10px}.qb-prev .seg{margin-bottom:10px}
+.qb-opts{list-style:none;padding:0;margin:6px 0 0;display:grid;gap:4px}
+.qb-opts li{display:flex;gap:8px;align-items:center;padding:6px 10px;border:1px solid var(--border);border-radius:10px;background:var(--surface-card)}
+.qb-opts li.ok{border-color:var(--success,#16a34a);font-weight:600}
+.qb-dot{width:14px;height:14px;border-radius:50%;border:2px solid var(--border-control);flex:none}
+.fb-q{margin:6px 0 0;padding:6px 10px;border-inline-start:3px solid var(--brand);background:var(--brand-tint);border-radius:8px;font-size:14px}
+.fb-in{width:100%;margin-top:6px}

diff --git a/docs/STATUS.md b/docs/STATUS.md
@@ -220,6 +220,13 @@
 - تاريخا الباقة: محرر البداية والنهاية في «السجل»، و«تواريخ الباقة للمعروضين» بمعاينة إلزامية (البداية أو النهاية فقط)، والتعديل في سجل الحركات (`…_sub_end_edit.sql`، `test_99993`، `tests/flex_start.mjs`).
 - لم تُغيَّر تواريخ الاشتراكات الحية بعد: التنفيذ (30 ديسمبر للأساسية والفضية و«خصصناها لك»، و8 ديسمبر للأربع المستثنيات) ينتظر تأكيد المالك لإعادة تفعيل الأساسية المنتهية في 9 نوفمبر.
 
+## AV — أدوات المدرب: اختبار شامل، معاينة، إرسال فردي وجماعي، وتغذية راجعة (17 نوفمبر 2026)
+- اختيار الأسئلة من أكثر من قسم في البنك، وعدد مفتوح 1–100 بسحب عشوائي موزّع على الأقسام أو انتقاء يدوي، وترتيب وحذف.
+- «معاينة» قبل النشر: كما يراه المدرب بالإجابات الصحيحة، وكما يراه المتدرب.
+- الإرسال الفردي بالبحث بالاسم، والجماعي بتحديد الظاهرين أو الباقة أو المجموعة المحفوظة.
+- «مراجعة وتغذية راجعة» بعد التسليم: إجابة المتدرب لكل سؤال، وملاحظة لكل سؤال وملاحظة عامة لا تغيّر الدرجة، يراها المتدرب في واجبه (`teacher_comment`).
+- اختبارات: `tests/quiz_builder.mjs`، و`supabase/tests/test_99994_trainer_feedback.sql`، وتحديث اختبارات المحرر السابقة.
+
 ## مؤجَّل بقرار المالك (بعد اكتمال جاهزية المنصة)
 - **آلية التحقق والدخول دون مزود رسائل — «تفعيل الجهاز»** (قرار 13 نوفمبر 2026: تُبحث وتُنفَّذ لاحقًا، ولم يُحسم اعتمادها بعد):
   - المتدرب: يُعتمد جهازه عند إتمام التسجيل منه، ويبقى داخلًا.
